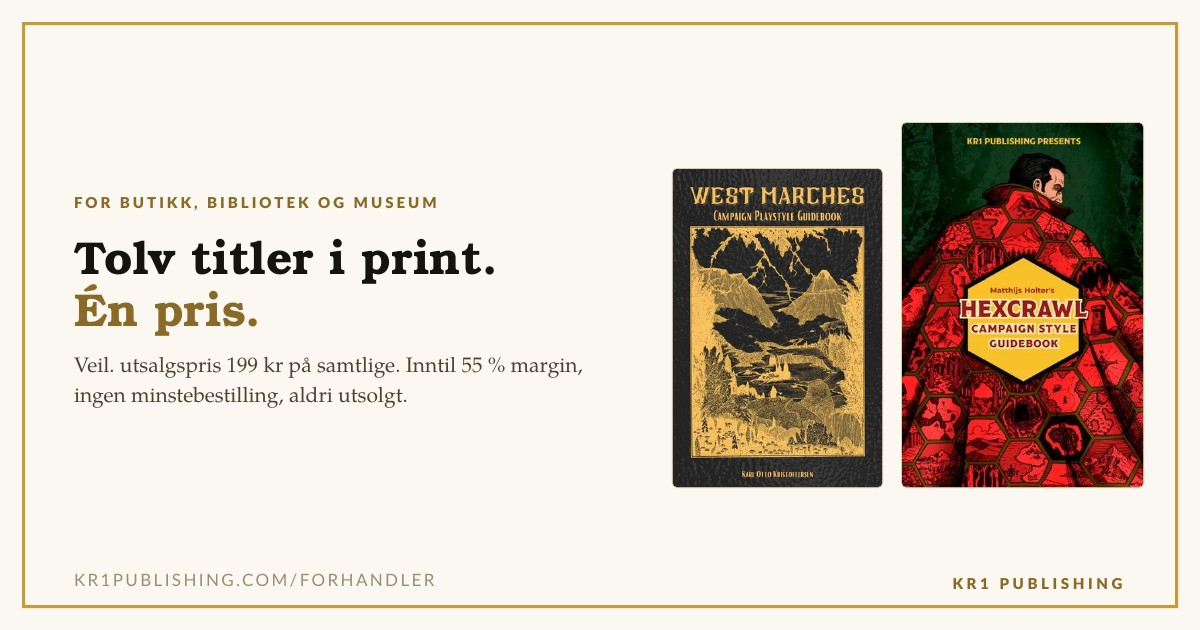
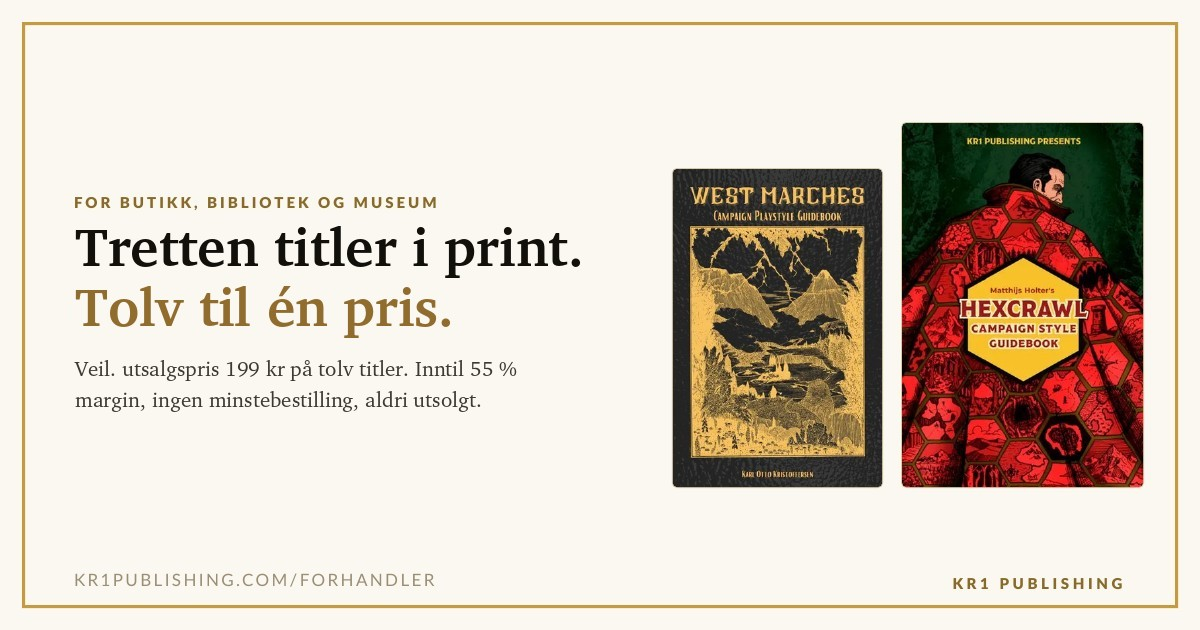
Vendor link previews: thirteen titles in print, twelve at one price
Claude-Session: https://claude.ai/code/session_01Go6ret7jCLgDqqds4EMTee

Changed region(s): [[0.0617, 0.3619, 0.4933, 0.5429], [0.0617, 0.5429, 0.4933, 0.6635]]

diff --git a/forhandler.html b/forhandler.html
@@ -10,10 +10,10 @@
 <meta property="og:description" content="Tretten print-titler, alle med bestselgermedalje, inntil 55 % margin, ingen minstebestilling og global eksport. Trykk i Europa eller USA, aldri restordre.">
 <meta property="og:type" content="website">
 <meta property="og:url" content="https://www.kr1publishing.com/forhandler">
-<meta property="og:image" content="https://www.kr1publishing.com/img/og-forhandler.jpg">
+<meta property="og:image" content="https://www.kr1publishing.com/img/og-forhandler.jpg?v=2">
 <meta property="og:image:width" content="1200">
 <meta property="og:image:height" content="630">
-<meta name="twitter:image" content="https://www.kr1publishing.com/img/og-forhandler.jpg">
+<meta name="twitter:image" content="https://www.kr1publishing.com/img/og-forhandler.jpg?v=2">
 <meta name="twitter:card" content="summary_large_image">
 
 <style>

diff --git a/vendor.html b/vendor.html
@@ -10,10 +10,10 @@
 <meta property="og:description" content="Thirteen print titles, all with bestseller medals, up to 55% margin, no minimum order and worldwide export. Printed in Europe or the USA, never on backorder.">
 <meta property="og:type" content="website">
 <meta property="og:url" content="https://www.kr1publishing.com/vendor">
-<meta property="og:image" content="https://www.kr1publishing.com/img/og-vendor.jpg">
+<meta property="og:image" content="https://www.kr1publishing.com/img/og-vendor.jpg?v=2">
 <meta property="og:image:width" content="1200">
 <meta property="og:image:height" content="630">
-<meta name="twitter:image" content="https://www.kr1publishing.com/img/og-vendor.jpg">
+<meta name="twitter:image" content="https://www.kr1publishing.com/img/og-vendor.jpg?v=2">
 <meta name="twitter:card" content="summary_large_image">
 
 <style>
